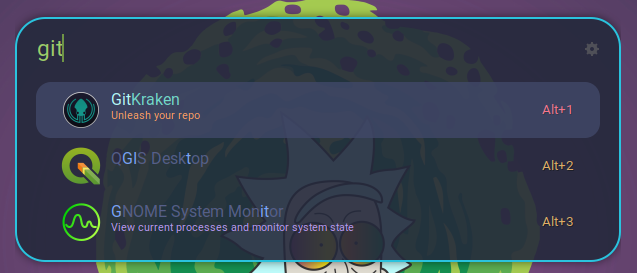
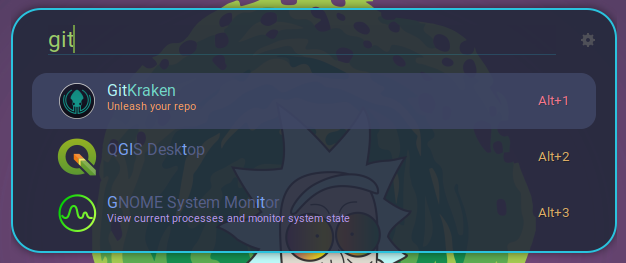
adding ss

diff --git a/TokyoNight/theme.css b/TokyoNight/theme.css
@@ -1,7 +1,7 @@
 /**
  * App Window
  */
-@define-color bg_color rgba(36, 40, 59, 0.8);
+@define-color bg_color rgba(36, 40, 59, 0.9);
 @define-color window_bg @bg_color;
 @define-color window_border_color rgba(42, 195, 222, 1);
 @define-color prefs_backgroud rgba(36, 40, 59, 1);
@@ -39,6 +39,8 @@
 .input {
     color: @input_color;
     padding: 0px;
+    margin-left: 15px;
+    border-bottom: 1px solid alpha(@window_border_color,0.2);
 }
 
 /**

diff --git a/README.md b/README.md
@@ -1,1 +1,29 @@
 # TokyoNight Theme by SirHades696
+
+A theme for Ulancher inspired by [`Tokyo Night Theme`](https://github.com/enkia/tokyo-night-vscode-theme)
+
+## Screenshots
+
+![SS](TokyoNight/Screenshots/1.png)
+
+![SS](TokyoNight/Screenshots/2.png)
+
+![SS](TokyoNight/Screenshots/3.png)
+
+## Installation
+
+```sh
+
+mkdir -p ~/.config/ulauncher/user-themes
+git clone https://github.com/SirHades696/TokyoNight-Ulauncher-Theme \
+  ~/.config/ulauncher/user-themes/TokyoNight
+
+```
+
+## Credits
+
+* [Surendrajat](https://github.com/Surendrajat/SeaOwl-Ulauncher-theme)
+
+* [Tokyo Night Theme](https://github.com/enkia/tokyo-night-vscode-theme)
+
+
